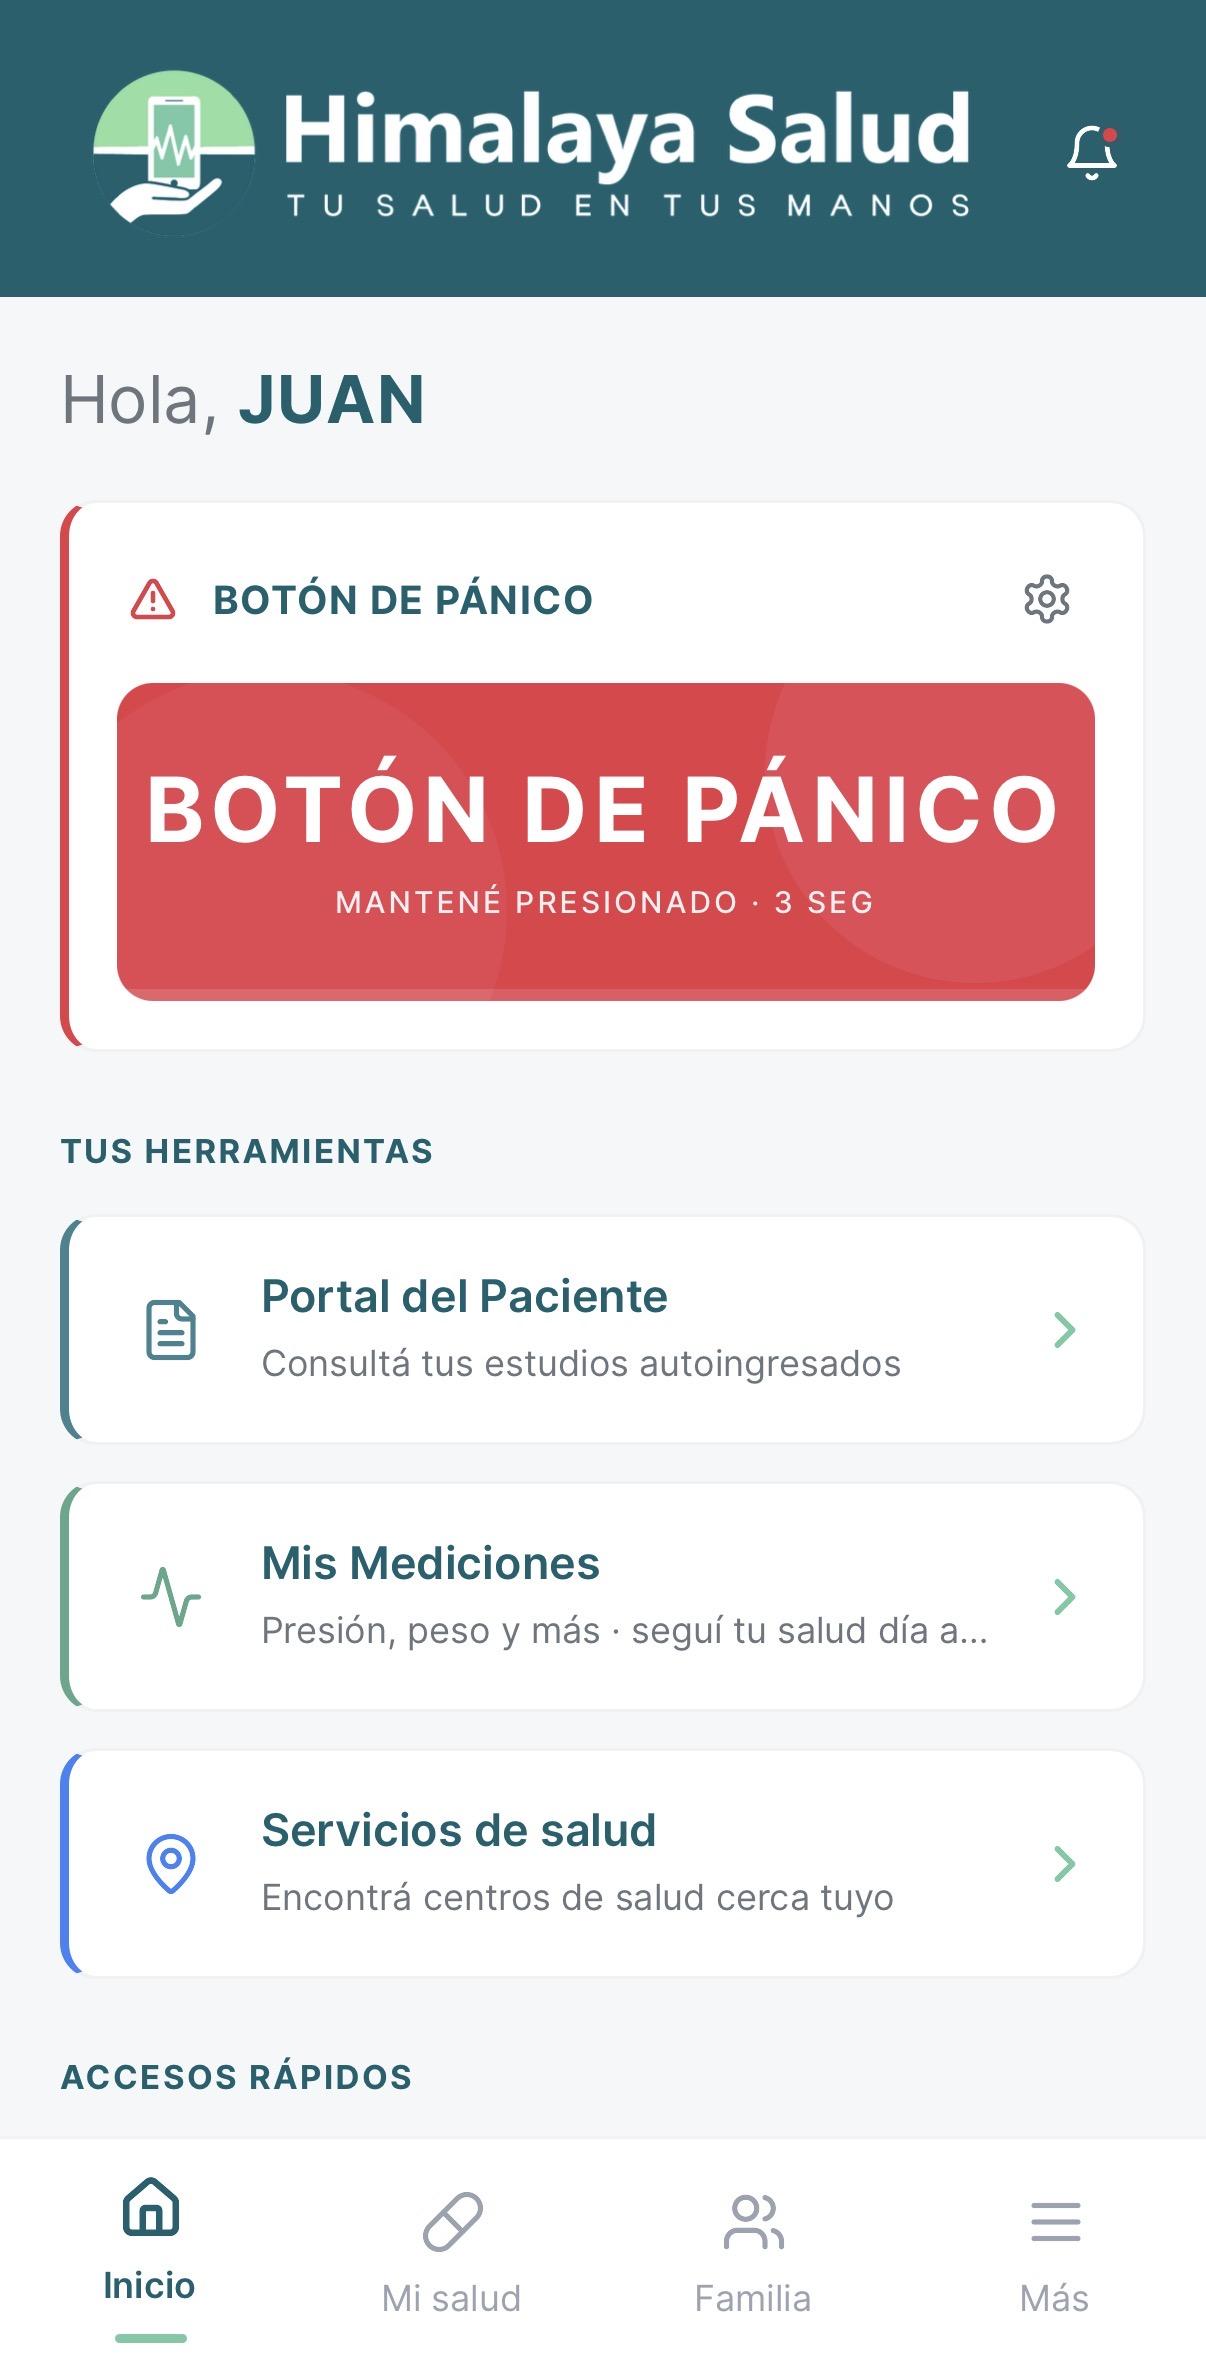
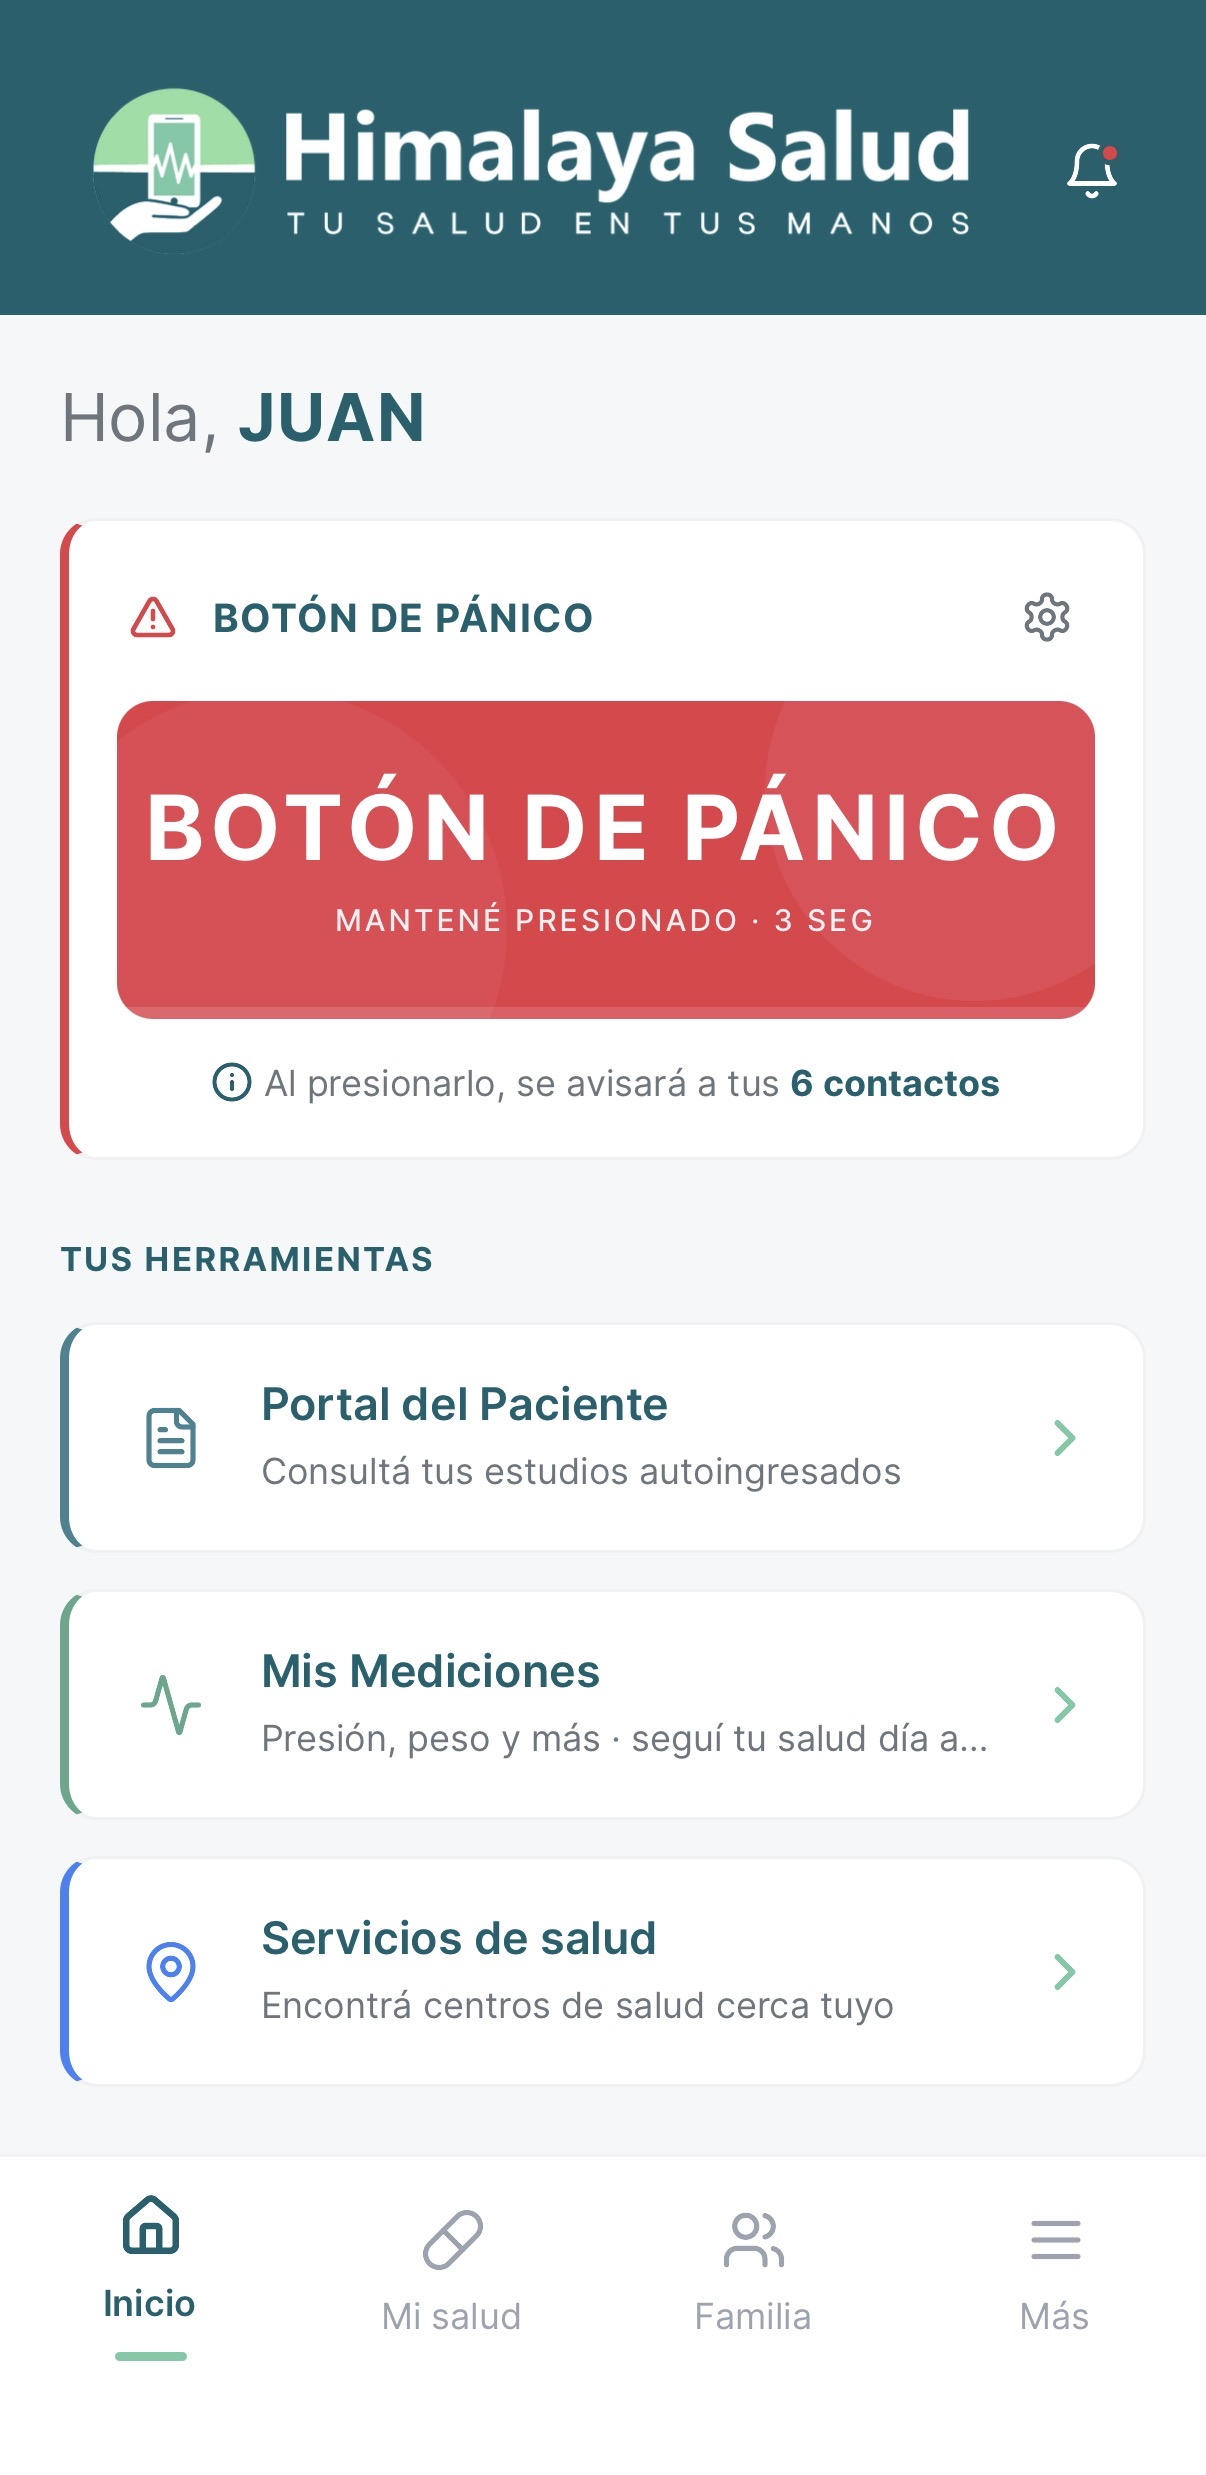
feat: destacar Botón de Pánico en el hero y ajustes de copy/layout
- Hero: "Botón de Pánico" como título destacado arriba del eyebrow
- Hero estático al cargar (sin animación de entrada que lo desplazaba)
- Sacar margen sobrante entre texto e imagen + nueva captura del home
- Quitar "EMERGENCIA" del stat (queda "avisa a tus 6 contactos")
- Producto: imagen a la izquierda en Botón de Pánico + alternancia
- Header de producto "cuando cada segundo cuenta" y limpieza de títulos

diff --git a/src/app/page.tsx b/src/app/page.tsx
@@ -363,6 +363,7 @@ function HomeFull() {
     );
 
     sections.forEach((s) => {
+      if (s.id === "inicio") return;
       s.classList.add("reveal");
       if (s.getBoundingClientRect().top < window.innerHeight * 0.9) {
         s.classList.add("reveal-visible");
@@ -404,7 +405,15 @@ function HomeFull() {
         >
           <div className="grid items-center gap-10 md:gap-12 lg:grid-cols-[1.1fr_1fr]">
             <div className="stagger">
-              <Eyebrow>Tu salud en tus manos · Prevención digital</Eyebrow>
+              <p
+                className="text-3xl font-extrabold sm:text-4xl"
+                style={{ color: C.danger, letterSpacing: "-0.02em" }}
+              >
+                Botón de Pánico
+              </p>
+              <div className="mt-2">
+                <Eyebrow>Tu salud en tus manos · Prevención digital</Eyebrow>
+              </div>
               <h1
                 className="mt-6 text-4xl font-extrabold sm:text-5xl lg:text-6xl"
                 style={{
@@ -457,9 +466,9 @@ function HomeFull() {
                   </strong>
                   <div className="text-xs" style={{ color: C.textCaption }}>
                     <div style={{ fontWeight: 600, color: C.textBody }}>
-                      EMERGENCIA
+                      avisa a tus 6 contactos
                     </div>
-                    <div>avisa a tus 6 contactos</div>
+                    <div>indicados por vos</div>
                   </div>
                 </div>
                 {FEATURES.hci && (
@@ -497,12 +506,12 @@ function HomeFull() {
               </div>
             </div>
 
-            <div className="relative flex items-center justify-center lg:mt-12">
+            <div className="relative flex items-center justify-center">
               <Image
                 src="/images/app/hero-inicio.jpg"
                 alt="App Himalaya Salud en la pantalla de inicio"
                 width={1206}
-                height={2374}
+                height={2475}
                 priority
                 sizes="(max-width: 640px) 220px, (max-width: 1024px) 260px, 300px"
                 className="float-y h-auto w-[220px] sm:w-[260px] lg:w-[300px]"
@@ -659,7 +668,7 @@ function HomeFull() {
             >
               Una app, todo lo que necesitás{" "}
               <span style={{ color: C.mint700 }}>
-                para tu salud y la de tu familia
+                cuando cada segundo cuenta
               </span>
               .
             </h2>
@@ -684,20 +693,10 @@ function HomeFull() {
       >
         <div className="container mx-auto px-4">
           <div className="grid items-center gap-10 md:gap-12 lg:grid-cols-2">
-            <div className="stagger">
+            <div className="stagger lg:order-2">
               <Eyebrow color={C.danger}>Botón de Pánico</Eyebrow>
-              <h2
-                className="mt-4 text-3xl font-extrabold sm:text-4xl"
-                style={{
-                  color: C.teal900,
-                  letterSpacing: "-0.025em",
-                  lineHeight: 1.1,
-                }}
-              >
-                Cuando cada segundo cuenta.
-              </h2>
               <p
-                className="mt-6 max-w-xl text-lg"
+                className="mt-4 max-w-xl text-lg"
                 style={{ color: C.textCaption, lineHeight: 1.55 }}
               >
                 Pedí ayuda con un solo toque. Mantené presionado{" "}
@@ -771,7 +770,7 @@ function HomeFull() {
               </p>
             </div>
 
-            <div className="relative flex items-center justify-center">
+            <div className="relative flex items-center justify-center lg:order-1">
               <div
                 aria-hidden
                 className="pulse-blob"
@@ -808,7 +807,7 @@ function HomeFull() {
         <FeatureSection
           key={p.id}
           producto={p}
-          reverse={i % 2 === 1}
+          reverse={i % 2 === 0}
           background={i % 2 === 0 ? "#FFFFFF" : C.bg}
         />
       ))}